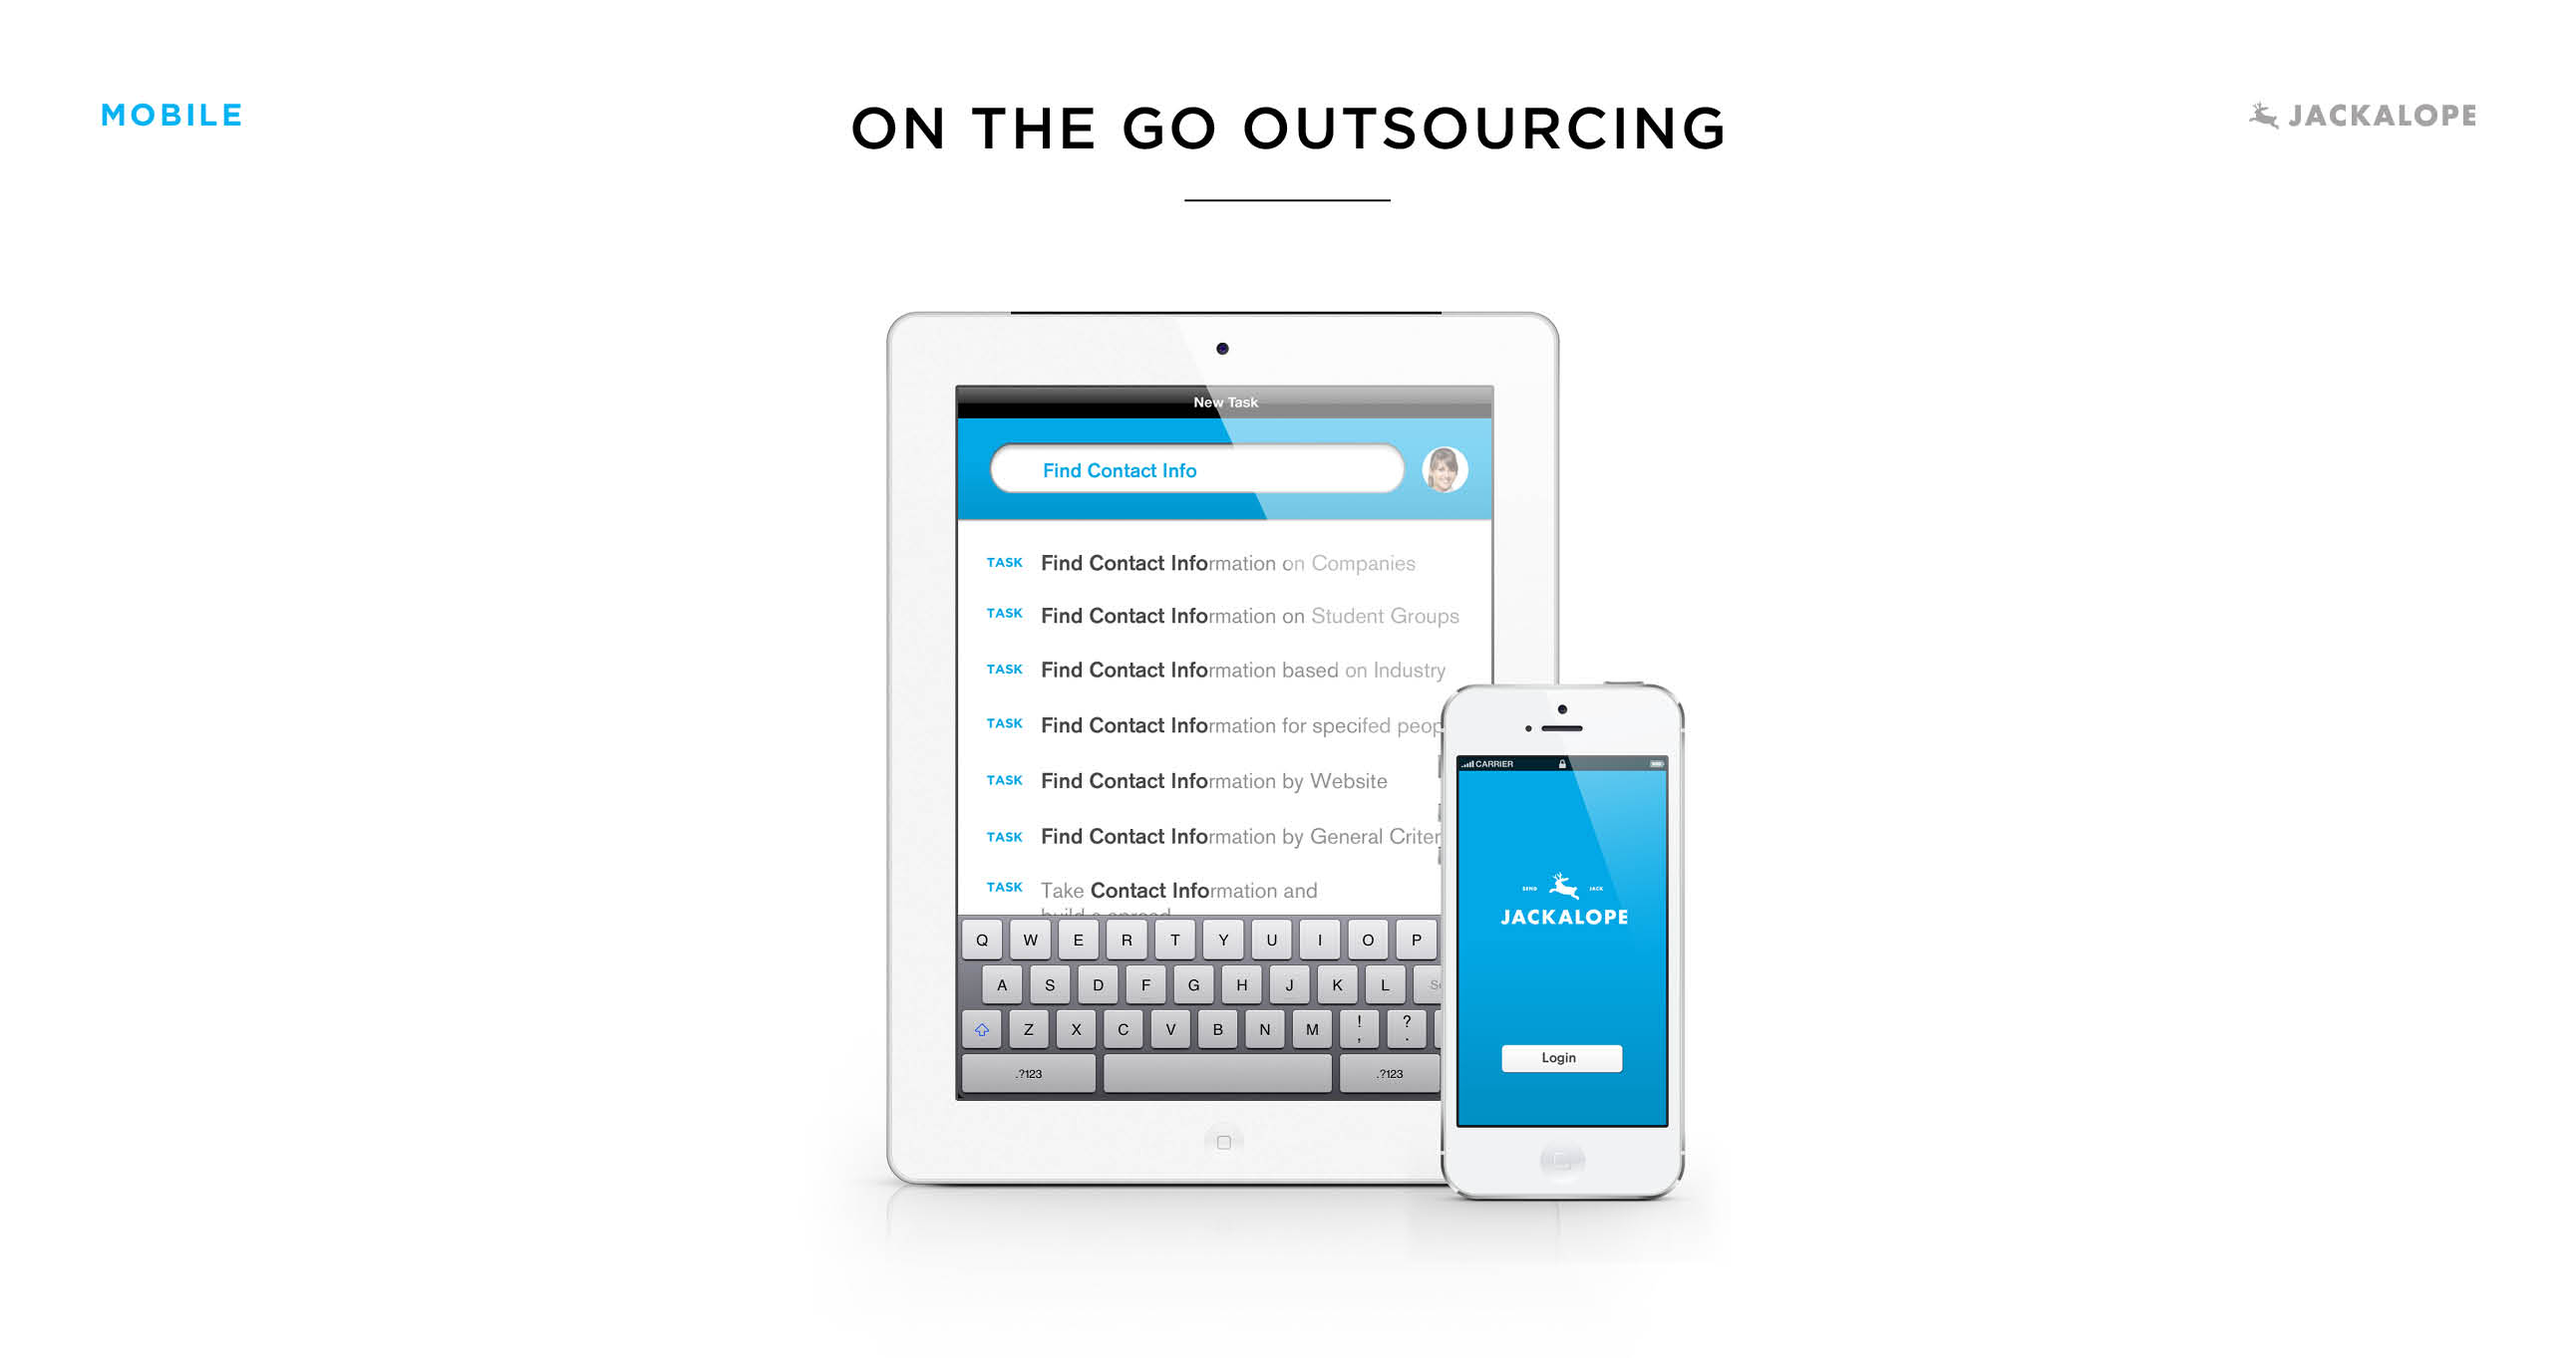
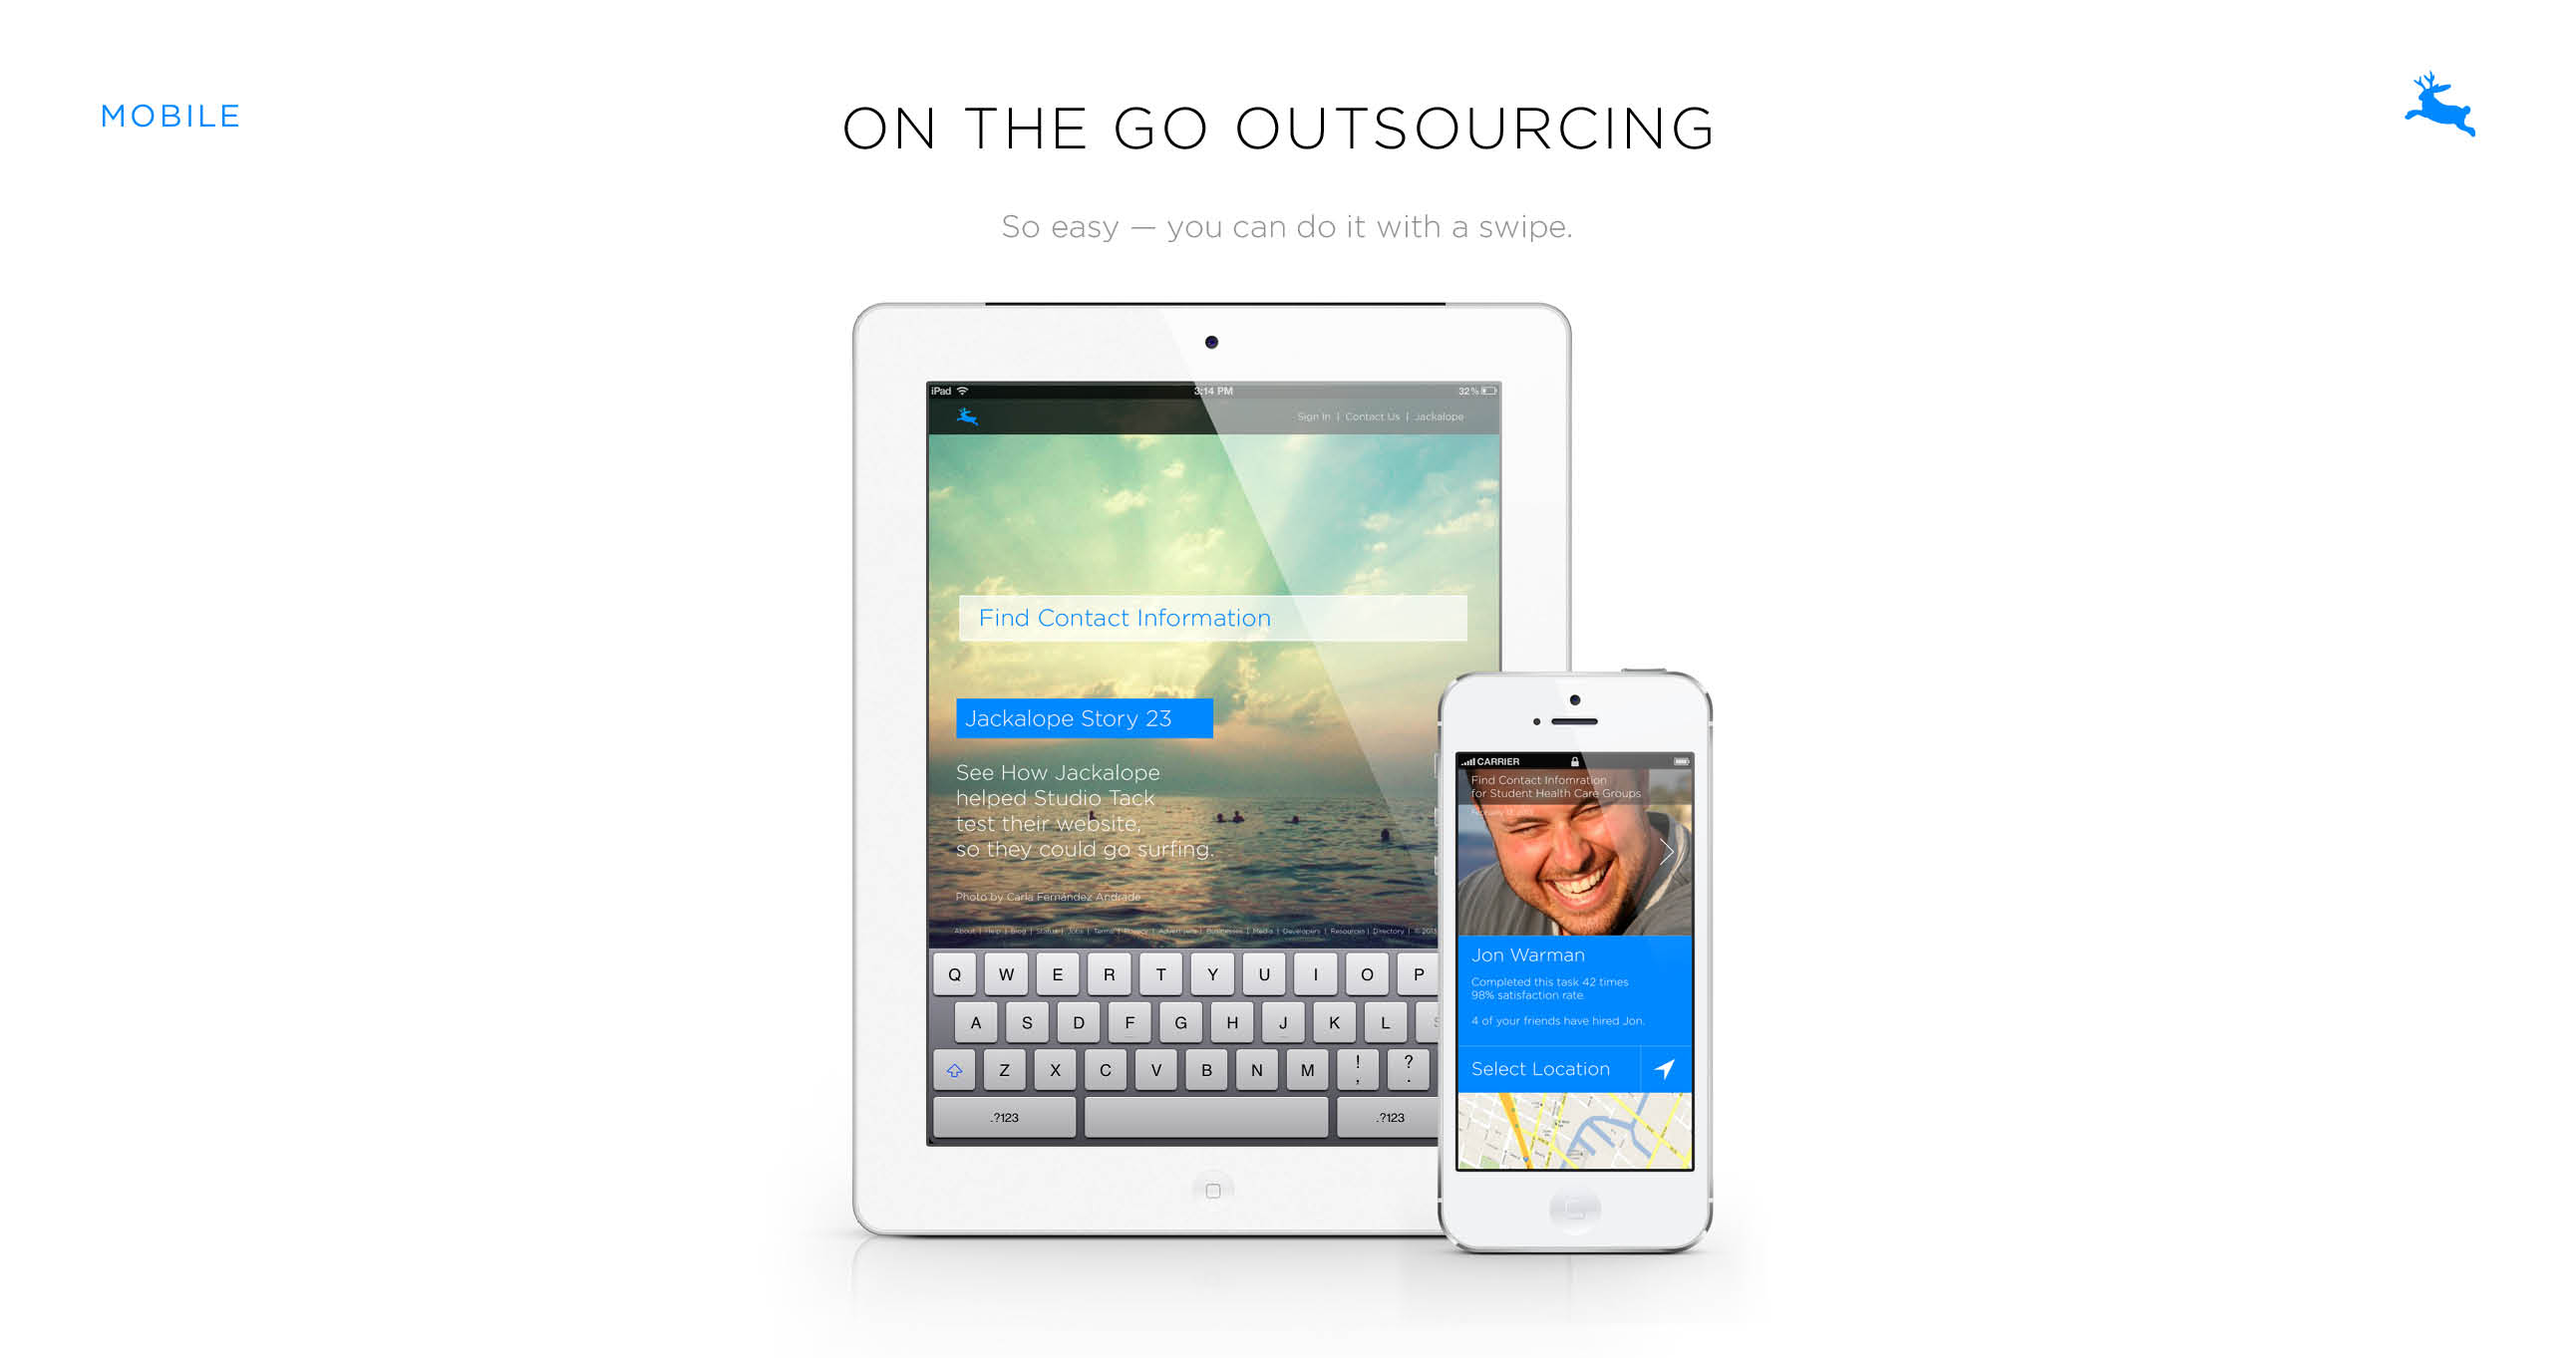
[deck] upload new slides before TechStars interview

diff --git a/view/templates/deck.html b/view/templates/deck.html
@@ -80,84 +80,27 @@
 
 <!-- SLIDE #8 -->
 <section class="slide">
-    <img src="/static/images/deck/GoToMarket1.jpg" alt="Go to Market" />
+    <img src="/static/images/deck/Solution1.jpg" alt="Solution" />
 </section>
 
 <!-- SLIDE #9 -->
 <section class="slide">
-    <img src="/static/images/deck/GoToMarket2.jpg" alt="Go to Market" />
+    <img src="/static/images/deck/Solution2.jpg" alt="Solution" />
 </section>
 
 <!-- SLIDE #10 -->
 <section class="slide">
-    <img src="/static/images/deck/VideoDemo.jpg" alt="Go to Market" />
-
-    <div id="video-demo">
-
-        <!-- POPOVER -->
-        <!--
-        <a
-            href="http://fast.wistia.com/embed/iframe/tst16o3mil?autoPlay=true&controlsVisibleOnLoad=true&popover=true&version=v1&videoHeight=640&videoWidth=1024&volumeControl=true"
-            class="wistia-popover[height=640,width=1024]">
-
-            <img
-                src="http://embed-0.wistia.com/deliveries/105cb352bb16a3e43161c40028ff6cdbdb2462d0.jpg?image_play_button=true&image_crop_resized=512x320"
-                alt="" />
-
-        </a>
-        <script
-            charset="ISO-8859-1"
-            src="http://fast.wistia.com/static/popover-v1.js">
-        </script>
-        -->
-
-        <!-- EMBEDDED IFRAME -->
-        <iframe 
-            src="http://fast.wistia.com/embed/iframe/tst16o3mil?endVideoBehavior=reset&version=v1&videoHeight=640&videoWidth=1024&volumeControl=true"
-            allowtransparency="true"
-            frameborder="0"
-            scrolling="no"
-            class="wistia_embed"
-            name="wistia_embed"
-            width="1024"
-            height="640">
-        </iframe>
-
-        <!-- EMBEDDED API CALL -->
-        <!--
-        <div
-            id="wistia_tst16o3mil"
-            class="wistia_embed"
-            style="width:1024px;height:640px;"
-            data-video-width="1024"
-            data-video-height="640">&nbsp;
-        </div>
-        <script
-            charset="ISO-8859-1"
-            src="http://fast.wistia.com/static/concat/E-v1.js">
-        </script>
-        <script>
-wistiaEmbed = Wistia.embed("tst16o3mil", {
-    version: "v1",
-    videoWidth: 1024,
-    videoHeight: 640,
-    volumeControl: true,
-    controlsVisibleOnLoad: true
-});
-        </script>
-        -->
-
-    </div>
+    <img src="/static/images/deck/Solution3.jpg" alt="Solution" />
 </section>
 
 <!-- SLIDE #11 -->
 <section class="slide">
-    <img src="/static/images/deck/AndMore1.jpg" alt="And More" />
+    <img src="/static/images/deck/Solution4.jpg" alt="Solution" />
 </section>
 
 <!-- SLIDE #12 -->
 <section class="slide">
-    <img src="/static/images/deck/AndMore2.jpg" alt="And More" />
+    <img src="/static/images/deck/Solution5.jpg" alt="Solution" />
 </section>
 
 <!-- SLIDE #13 -->
@@ -172,7 +115,12 @@ wistiaEmbed = Wistia.embed("tst16o3mil", {
 
 <!-- SLIDE #15 -->
 <section class="slide">
-    <img src="/static/images/deck/Financials.jpg" alt="Financials" />
+    <img src="/static/images/deck/Finances.jpg" alt="Finances" />
+</section>
+
+<!-- SLIDE #15 -->
+<section class="slide">
+    <img src="/static/images/deck/Contact.jpg" alt="Contact" />
 </section>
 
 <!-- End slides. -->
